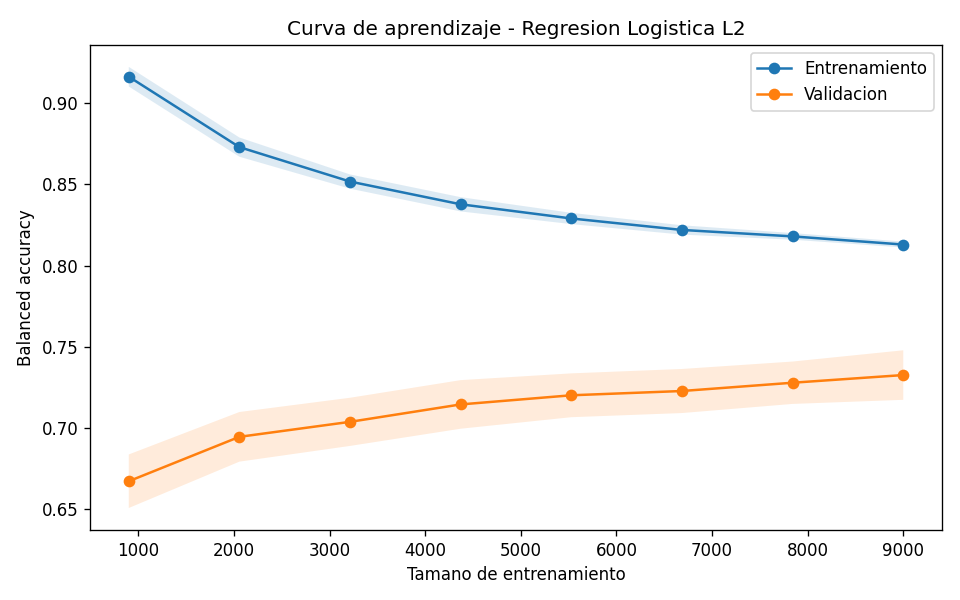
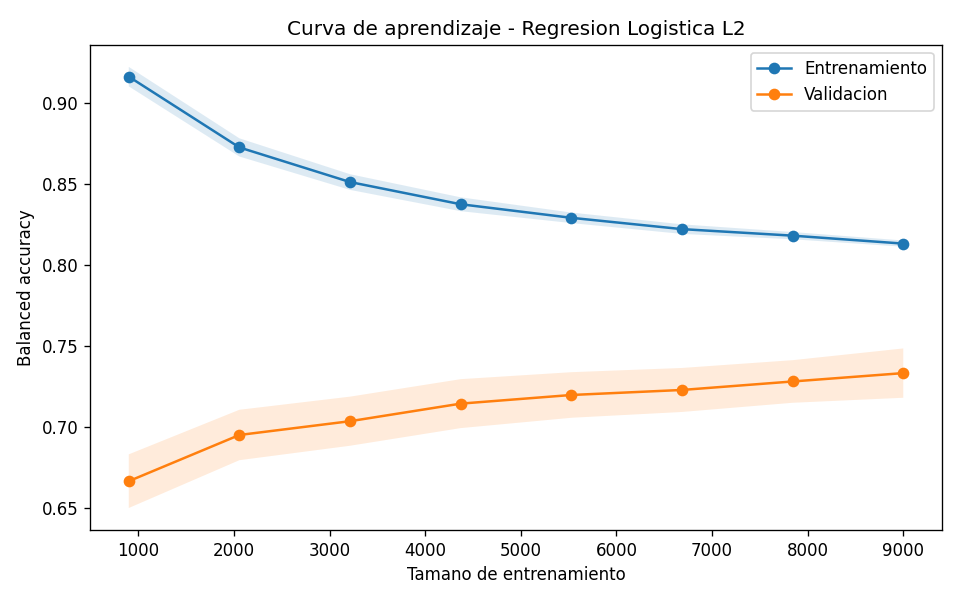
REPORT: fixed-code 9-pt run numbers; README: architecture & process
REPORT.md (this run = trimmed 9-pt grid, tol=1e-3):
- validation-curve text matches 9-pt grid (peak lambda=100/0.733,
  ~4.7pp overfit decline to ~0.686 at C=10)
- Wilcoxon stat 59.0, p=0.00061; conclusions p~6e-4
- dropped the '13-value grid' footnote caveat (this IS the 9-val run)
- verdict unchanged: SVM RBF > LogReg L2, kernel helps

README.md: replace methodology list with 'Arquitectura y proceso' -
pipeline diagram + Representacion / Optimizacion / Evaluacion;
fix 'accuracy de CV' -> 'balanced accuracy de CV'; link REPORT.md

Figures: refreshed the 3 that changed (validation/learning/
model_comparison); tsne + EDA byte-identical (same embeddings).

diff --git a/README.md b/README.md
@@ -17,39 +17,68 @@ clásicos para distinguir las **5 clases más frecuentes**. Se compara
 estadísticamente una **Regresión Logística Regularizada** contra una
 **SVM con kernel RBF**.
 
-## 2. Metodología
+## 2. Arquitectura y proceso
 
-1. **Escaneo de etiquetas** (`scan_labels`): pasada en *streaming* leyendo
-   solo la columna `labels` para el EDA y para elegir las 5 clases más
-   frecuentes (dataset multi-etiqueta de 43 clases CLC).
-2. **Subconjunto multiclase balanceado**: BigEarthNet es multi-etiqueta
-   (~3 etiquetas/parche), por lo que exigir parches con una **única**
-   etiqueta del top-5 dejaba clases casi vacías (subconjunto degenerado).
-   En su lugar se toma cualquier parche con ≥1 etiqueta del top-5 y se le
-   asigna la clase del top-5 **menos representada** hasta el momento
-   (balanceo *greedy*, determinista), formando un problema de 5 clases
-   balanceado, con un tope `per_class` (cada clase llega a
-   `min(disponibles, per_class)`). Por defecto `per_class = 2000`
-   (≈10 000 imágenes; la clase más rara puede quedar por debajo). El
-   encoder JEPA se aplica una sola vez sobre ese subconjunto y los
-   *embeddings* se cachean. Como las clases quedan desbalanceadas, la
-   métrica de tuning/comparación es **balanced accuracy** (no accuracy).
-3. **Feature Extraction (JEPA)**: I-JEPA ViT-H/14 congelado; *embedding*
-   por imagen = *mean pooling* de los tokens de parche. Es *transfer
-   learning* sobre imágenes, por lo que —según el rubric— el paso de
-   **Feature Selection** puede omitirse; queda disponible como filtro
-   opcional (`SelectKBest`, `config.select_k_best`).
-4. **Pipelines** (`sklearn.Pipeline`): `StandardScaler` → [filtro opc.] →
-   clasificador.
-5. **Optimización de hiperparámetros**: `GridSearchCV` sobre `C` (=1/λ)
-   con `RepeatedStratifiedKFold`; se generan curva de validación y curva
-   de aprendizaje.
-6. **Comparación estadística**: *repeated k-fold CV* (10×3 por defecto,
-   mismos *splits* para ambos modelos) + test pareado de **Wilcoxon**
-   (α = 0.05). La CV se hace **solo sobre el clasificador** (scaler +
-   modelo) sobre los *embeddings* ya extraídos: JEPA queda fuera del
-   bucle de CV (encoder congelado, sin fuga de información).
-7. **t-SNE**: proyección 2D de los *embeddings* coloreada por clase.
+Pipeline de un solo comando, con caché por etapa:
+
+```
+BigEarthNet-S2 (streaming) ─▶ EDA + subconjunto balanceado (caché)
+        │
+        ▼
+  I-JEPA ViT-H/14 (CONGELADO) ─▶ embeddings 1280-D (caché)
+        │
+        ▼
+  Pipeline sklearn:  StandardScaler ─▶ [SelectKBest opc.] ─▶ clasificador
+        │
+        ├─▶ Optimización de hiperparámetros (GridSearchCV)
+        └─▶ Evaluación: CV repetida + Wilcoxon (LogReg vs SVM) + t-SNE
+```
+
+### 2.1 Representación
+
+- **Datos** (`scan_labels`): pasada en *streaming* leyendo solo `labels`
+  para el EDA y elegir el **top-5** de clases (dataset multi-etiqueta,
+  43 clases CLC). El escaneo se cachea.
+- **Subconjunto balanceado** (`build_subset`): BigEarthNet es
+  multi-etiqueta (~2.7 etiquetas/parche); exigir parches con una *única*
+  etiqueta del top-5 degeneraba el subconjunto. En su lugar se toma
+  cualquier parche con ≥1 etiqueta del top-5 y se le asigna la clase
+  **menos representada** hasta el momento (balanceo *greedy*,
+  determinista). Tope `per_class = 2000` → ≈10 000 imágenes, 5 clases
+  balanceadas; caché invalidada por `per_class` y versión de
+  construcción.
+- **Extracción de características (JEPA)**: I-JEPA ViT-H/14 **congelado**;
+  *embedding* por imagen = *mean pooling* de los tokens de parche
+  (vector **1280-D**). Es *transfer learning*, por lo que **Feature
+  Selection** puede omitirse (`SelectKBest` queda opcional). El encoder
+  se aplica **una sola vez**; *embeddings* cacheados (fp16 en CUDA,
+  *checkpoint* reanudable).
+- **Pipeline** (`sklearn.Pipeline`): `StandardScaler` → [`SelectKBest`
+  opc.] → clasificador. JEPA queda **fuera del bucle de CV** (congelado,
+  sin fuga de información).
+
+### 2.2 Optimización
+
+- **Hiperparámetro**: `C` (= 1/λ) de la Regresión Logística **L2**, con
+  `GridSearchCV` + `RepeatedStratifiedKFold` **10×3** y métrica
+  **balanced accuracy** (clases balanceadas; evita el sesgo de accuracy).
+- **Malla**: `C ∈ logspace(-3, 1, 9)`, acotada a la región que converge
+  (`lbfgs`, `tol=1e-3`); los `C` grandes (poca regularización) no
+  convergían y daban peor resultado.
+- **Diagnóstico**: la **curva de validación** se deriva de
+  `grid.cv_results_` (sin reejecutar *fits*) y se genera la **curva de
+  aprendizaje** (sesgo/varianza).
+
+### 2.3 Evaluación
+
+- **Dos técnicas**: Regresión Logística **L2** vs **SVM RBF**, con
+  *repeated k-fold CV* **10×3** sobre **los mismos *splits***.
+- **Test estadístico**: **Wilcoxon** pareado (*signed-rank*) sobre las
+  *balanced accuracy* por *fold*, α = 0.05 (H₀: sin diferencia).
+- **Visualización**: proyección **t-SNE** 2D de los *embeddings*
+  coloreada por clase (separabilidad cualitativa).
+
+Resultados analizados en [`REPORT.md`](REPORT.md).
 
 ## 3. Instalación
 
@@ -114,7 +143,7 @@ Generado por `python main.py eda` en `outputs/eda/`:
 
 Tras ejecutar el pipeline, los valores quedan en:
 
-- `outputs/metrics/tuning.json` — mejor λ, accuracy de CV.
+- `outputs/metrics/tuning.json` — mejor λ, balanced accuracy de CV.
 - `outputs/metrics/comparison.json` — medias, p-valor de Wilcoxon, veredicto.
 - `outputs/figures/` — `validation_curve.png`, `learning_curve.png`,
   `model_comparison.png`, `tsne.png`.

diff --git a/REPORT.md b/REPORT.md
@@ -30,11 +30,11 @@ como extractor de características y clasificadores clásicos por encima.
 - **Balanced accuracy CV (mejor): 0.733**.
 - Curva de validación: el máximo está en **λ = 100** (0.733) y el
   rendimiento **decae de forma monótona al reducir λ** (`C` grande, poca
-  regularización), hasta ~0.657 en `C = 1000` — una caída de **~7.6 pp**
-  por sobreajuste en el espacio de 1280 dimensiones. El lado de
-  regularización muy fuerte es casi plano (~0.721 en λ=1000, solo ~1 pp
-  bajo el óptimo): **predomina la varianza**, la regularización es
-  imprescindible.
+  regularización), hasta ~0.686 en `C = 10` — una caída de **~4.7 pp**
+  dentro del rango explorado, por sobreajuste en el espacio de 1280
+  dimensiones. El lado de regularización muy fuerte es casi plano
+  (~0.721 en λ=1000, solo ~1 pp bajo el óptimo): **predomina la
+  varianza**, la regularización es imprescindible.
 
 | Curva de validación (λ vs balanced acc.) | Curva de aprendizaje |
 |---|---|
@@ -47,8 +47,8 @@ como extractor de características y clasificadores clásicos por encima.
 | Regresión Logística L2 | 0.733 ± 0.015 |
 | **SVM RBF** | **0.741 ± 0.015** |
 
-- Wilcoxon pareado (mismos *splits*): estadístico = 54.5,
-  **p = 0.00042 < 0.05**.
+- Wilcoxon pareado (mismos *splits*): estadístico = 59.0,
+  **p = 0.00061 < 0.05**.
 - **Veredicto: se rechaza H₀** — diferencia estadísticamente
   significativa; **la SVM RBF es mejor** que la Regresión Logística L2
   sobre estos *embeddings*. El margen es pequeño (~0.8 pp) pero
@@ -61,11 +61,11 @@ como extractor de características y clasificadores clásicos por encima.
 - Los *embeddings* I-JEPA congelados aportan **señal de clase real pero
   moderada**: ~0.73–0.74 balanced accuracy en 5 clases (azar = 0.20).
 - La **regularización fuerte es imprescindible**: el óptimo está en
-  **λ = 100** y, al debilitarla, el modelo pierde **~7.6 pp** por
+  **λ = 100** y, al debilitarla, el modelo pierde **~4.7 pp** por
   sobreajuste en el espacio de 1280 dimensiones (predomina la varianza;
   el subajuste por exceso de regularización es leve, ~1 pp).
 - La **SVM RBF supera de forma estadísticamente significativa** a la
-  Regresión Logística L2 (Wilcoxon p≈4×10⁻⁴), aunque por **margen
+  Regresión Logística L2 (Wilcoxon p≈6×10⁻⁴), aunque por **margen
   pequeño** (~0.8 pp): el espacio de *embeddings* **no es perfectamente
   separable de forma lineal** y un *kernel* no lineal aporta una mejora
   pequeña pero real. Coherente con el solapamiento parcial entre clases
@@ -98,9 +98,8 @@ generación del código base (ver nota de transparencia en `main.py`).
 ---
 *Resultados generados por `python main.py all`
 (`outputs/metrics/{tuning,comparison}.json`, `outputs/eda/eda_summary.json`).
-Métrica: balanced accuracy (subconjunto balanceado a 2 000/clase). La
-optimización de hiperparámetros, la comparación estadística (Wilcoxon)
-y la visualización t-SNE corresponden a ítems del rubric implementados
-en `tuning.py`, `compare.py` y `viz.py`. Esta corrida usó la malla de
-13 valores de `C`; la versión vigente del código la acota a 9 (sin
-cambiar el óptimo λ=100 ni el veredicto).*
+Métrica: balanced accuracy (subconjunto balanceado a 2 000/clase).
+Malla de 9 valores de `C` (`logspace(-3, 1, 9)`). La optimización de
+hiperparámetros, la comparación estadística (Wilcoxon) y la
+visualización t-SNE corresponden a ítems del rubric implementados en
+`tuning.py`, `compare.py` y `viz.py`.*